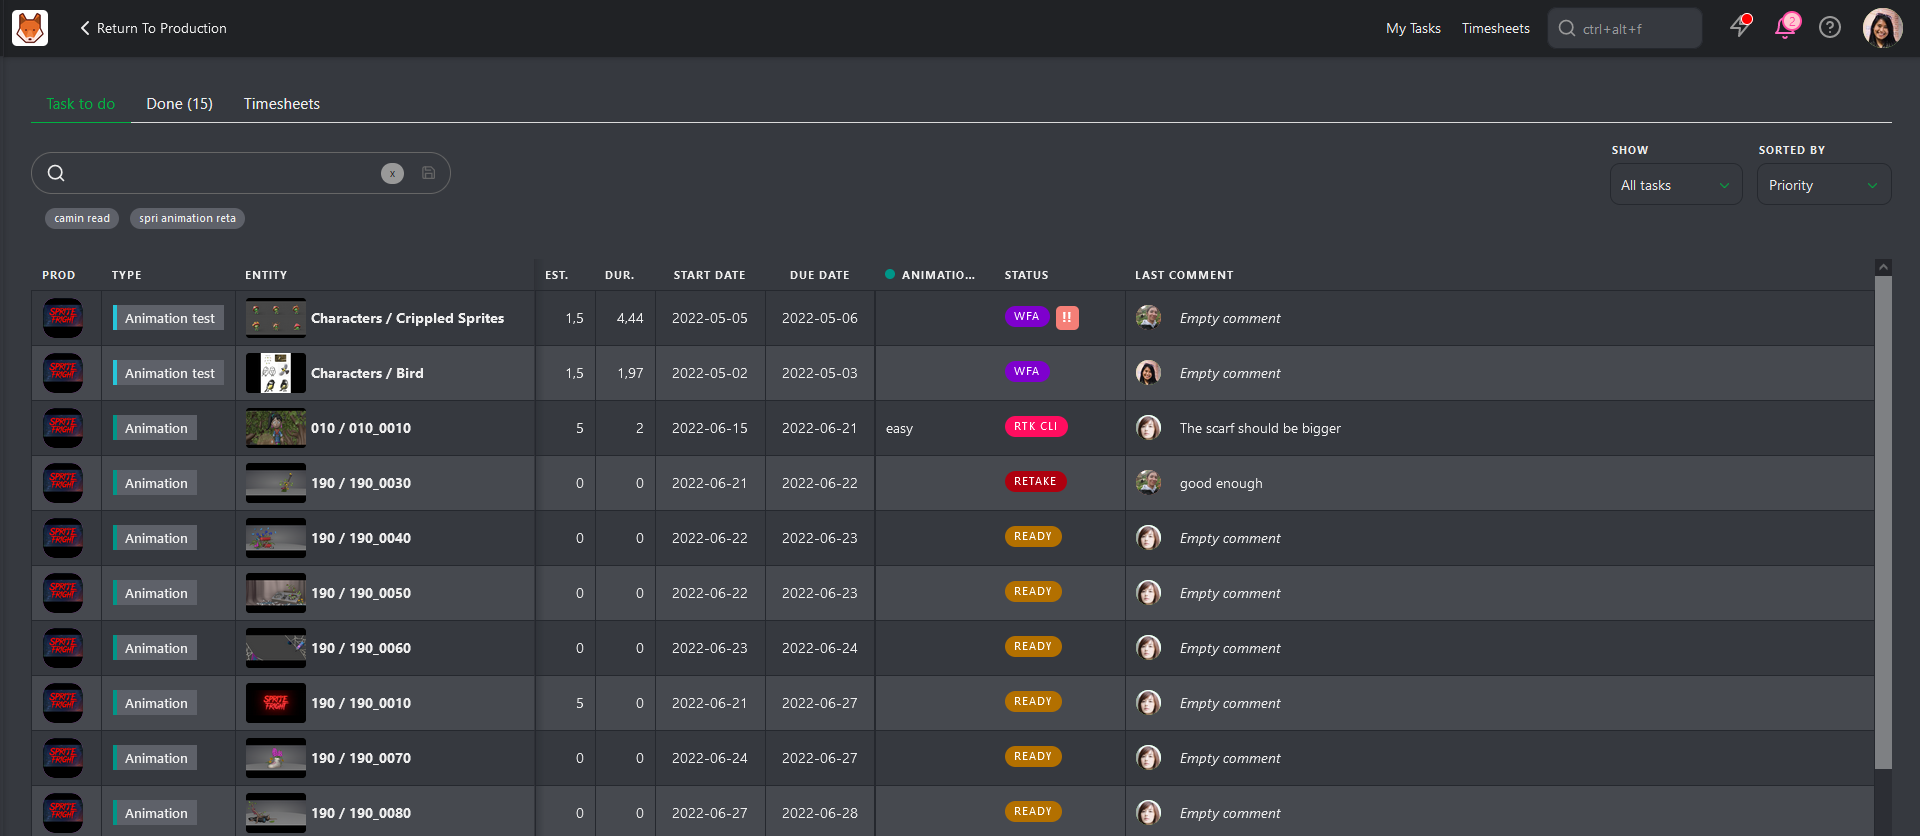
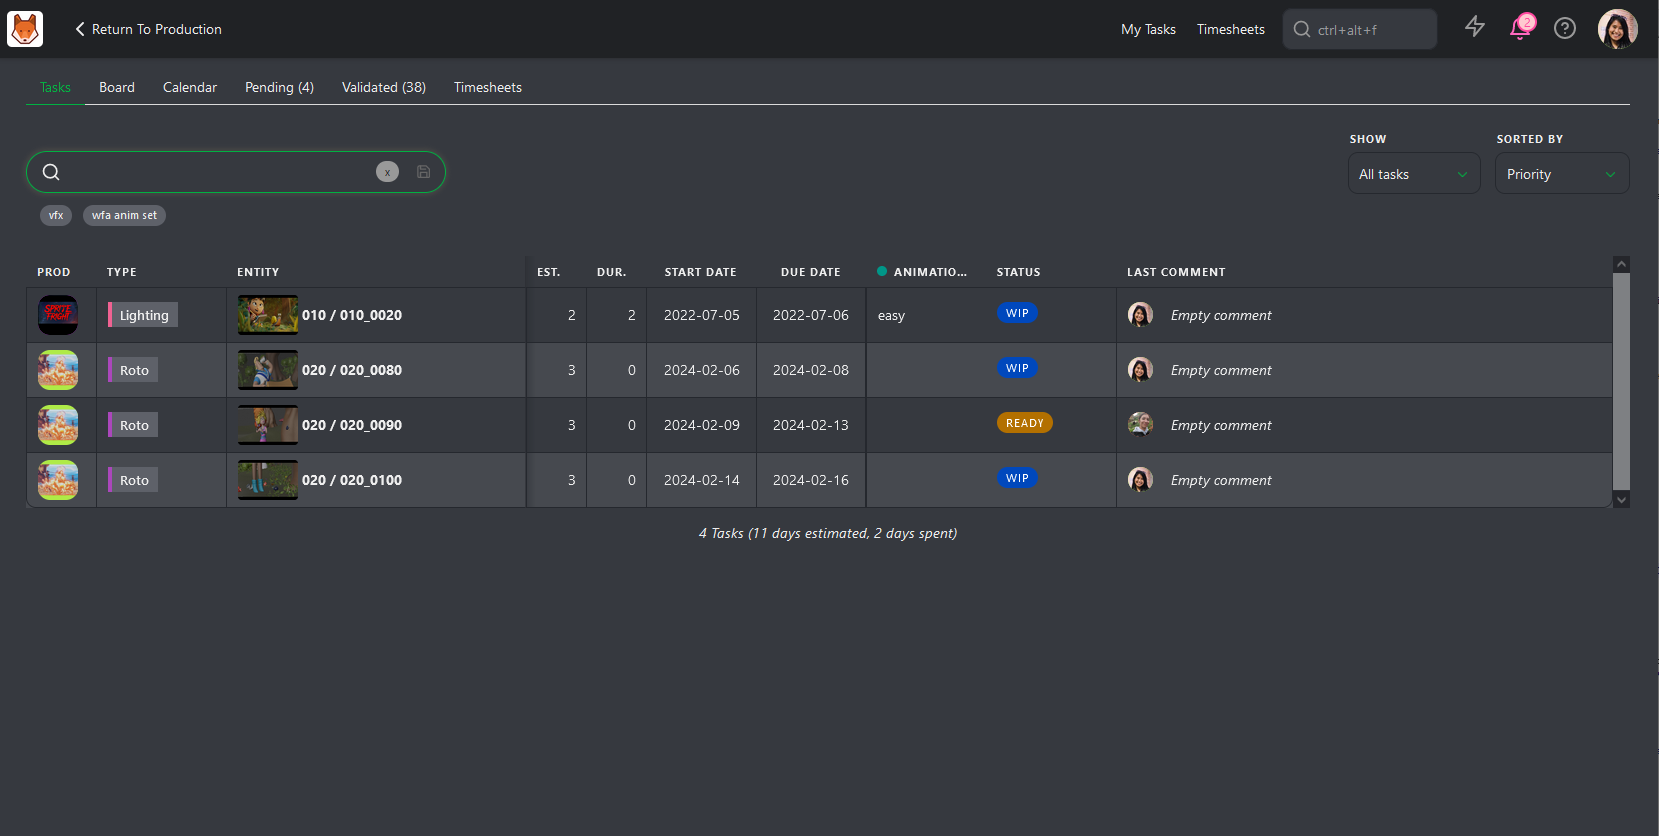
artist todo upd

diff --git a/docs/getting-started-artist/README.md b/docs/getting-started-artist/README.md
@@ -3,23 +3,23 @@
 
 ## First Connection
 
-On your first connection, we encourage you to fill your contact information
+On your first connection, we encourage you to fill in your contact information
 into your profile.
 Click on your avatar on the top right of the screen, then on **Profile**. You can also change the color of the **Theme** and hide or display the **Support Chat**.
 
-NB: A link to this **Documentation** and YouTube **Tutorials** are available .
+NB: A link to this **Documentation** and YouTube **Tutorials** are available.
 You can also jump on our Discord or look at our roadmap.
 
 ![User profile](../img/getting-started/user_profil.png)
 
-On this new page, you can check your name , your email (3), fill your phone
+On this new page, you can check your name and email (3), fill in your phone
 number (4), change the timezone (5), the language of the website (6), and
 post a pic of yourself as your avatar (7). It helps to recognize who is
 doing what!
 
 ![User detail](../img/getting-started/user_profil1.png)
 
-You can also define what kind of notification you want, email or slack.
+You can also define what kind of notification you want: email or Slack.
 
 ![User detail](../img/getting-started/user_profil2.png)
 
@@ -30,7 +30,9 @@ encourage you to change the default password with one of your own.
 ![User password](../img/getting-started/user_password.png)
 
 
-## See your Assignments
+## See your Assignments - Todo tab
+
+You have 3 ways of seeing your Assignments; the first is with the **TODO** tab.
 
 The central part for you, on **Kitsu**, is the **My tasks** page.
 It's the first landing page when you log in.
@@ -41,7 +43,9 @@ You can see per **Production** (1) the **Entity** (2) you are assigned to, but a
 
 ![My tasks page](../img/getting-started/my_task_page.png)
 
-You can sort your page by **name**, **priority**, **status**, **estimation** or **last comment**.
+You can display **All Tasks** or the tasks **Due this Week**.
+
+You can sort your page by **name**, **priority**, **Status**, **estimation** or **last comment**.
 
 ![My tasks page](../img/getting-started/mytask_sort.png)
 
@@ -50,35 +54,34 @@ You can also filter your tasks.
 ![My tasks page](../img/getting-started/mytask_filter.png)
 
 
-Besides the shortcut **My Tasks** on top of the screen, you can also find it on the main menu ![Main menu](../img/getting-started/main_button.png),
-under the **User** section of **MY TASKS**. The Kitsu logo is a shortcut too
-to your task list.
+Besides the shortcut **My Tasks** at the top of the screen, you can also find it on the main menu ![Main menu](../img/getting-started/main_button.png),
+under the **User** section of **MY TASKS**. The Kitsu logo is a shortcut 
+to your task list, too.
 
 ![My tasks](../img/getting-started/my_tasks.png)
 
 
 
-
-## Share your Progress
+## Share your Progress - Todo tab
 
 When you start a new task you are assigned to, click on the Status![Ready](../img/getting-started/ready_icon.png)
-(1) on your my task page. You can also do it on the shots or assets page.
+(1) on your My Task page. You can also do it on the shots or assets page.
 
 ![Shot status](../img/getting-started/my_task_status.png)
 
 It opens a panel on the right of the screen, where you can communicate about your work. Let your teammates know what you are doing.
-For instance, show them you start working on something.
-Each time you change the status of a task, you can attach a
+For instance, show them you have started working on something.
+Each time you change the Status of a task, you can attach a
 text comment to it.
 
-For example, when you start a **new task**, you can say that everything is ok.
-If some information is missing, you can either ask all the questions you want.
+For example, when you start a **new task**, you can say everything is okay.
+You can ask all the questions you want if some information needs to be included.
 
-To change the Status, let's say from ![Ready](../img/getting-started/ready_icon.png) to ![Wip](../img/getting-started/wip_icon.png) as an example,select the **Change status** tab,
-type your comment. Then, click on the status box, choose the
+To change the Status, let's say from ![Ready](../img/getting-started/ready_icon.png) to ![Wip](../img/getting-started/wip_icon.png) as an example, select the **Change status** tab
+and type your comment. Then, click on the status box and choose the
 one you want.
 
-And validate your comment and the new Status by clicking on
+Validate your comment and the new Status by clicking on
 **Post**  button.
 
 ![Changing status](../img/getting-started/changing_status.png)
@@ -88,44 +91,154 @@ using the **edit** button
 ![Edit button](../img/getting-started/edit_button.png).
 
 
+## See your Assignments - Board tab
+
+With the board tab, you can see all your tasks under each status column.
+
+On the card, you can see the thumbnail, the task type's name, and the entity's name.
+
+![Artist board page](../img/getting-started/artist_board_page.png)
+
+
+If you click on the card, the comment panel on the right will open as usual.
+
+![Artist board page comment panel](../img/getting-started/artist_board_page_comment.png)
+
+You can display **All Tasks** or the tasks **Due this Week**.
+
+You can sort your page by **name**, **priority**, **Status**, **estimation** or **last comment**.
+
+![My tasks page](../img/getting-started/mytask_sort.png)
+
+When you want to change the Status of your tasks, you need to drag and move your task to the new status column.
+
+![Artist board page drag](../img/getting-started/artist_board_page_drag.png)
+
+
+Besides the shortcut **My Tasks** at the top of the screen, you can also find it on the main menu ![Main menu](../img/getting-started/main_button.png),
+under the **User** section of **MY TASKS**. The Kitsu logo is a shortcut 
+to your task list, too.
+
+![My tasks](../img/getting-started/my_tasks.png)
+
+
+
+## Share your Progress - Board tab
+
+When you are ready to share your progress, you need to move your card to the status column **WFA**
+
+![Artist board page drag](../img/getting-started/artist_board_page_drag.png)
+
+Once done, Kitsu will automatically ask you to add a preview file for the Review.
+
+![Artist board page wfa](../img/getting-started/artist_board_page_review.png)
+
+You can drag and drop your preview on the **Select file from your hard drive**. Click on the button to select your file.
+
+You can also take a screenshot and paste it on this popup.
+
+Once it's done, click the confirm button to publish your Review.
+
+
+## See your Assignments - Calendar
+
+On the **Calendar** view, you can see all your assignments depending on your tasks' **Start** and **Due** date. If a task lasts several days, you will see the task across those days.
+
+
+![My tasks calendar page](../img/getting-started/artist_calendar_page.png)
+
+
+If you click on the task, the comment panel on the right will open as usual.
+
+![Artist calendar page comment panel](../img/getting-started/artist_calendar_page_panel.png)
+
+
+You can display **All Tasks** or the tasks **Due this Week**.
+
+You can sort your page by **name**, **priority**, **Status**, **estimation** or **last comment**.
+
+![My tasks page](../img/getting-started/mytask_sort.png)
+
+You can also filter your tasks.
+
+![My tasks page](../img/getting-started/mytask_filter.png)
+
+
+
+
+Besides the shortcut **My Tasks** at the top of the screen, you can also find it on the main menu ![Main menu](../img/getting-started/main_button.png),
+under the **User** section of **MY TASKS**. The Kitsu logo is a shortcut 
+to your task list, too.
+
+![My tasks](../img/getting-started/my_tasks.png)
+
+
+
+## Share your Progress - Calendar
+
+When you start a new task you are assigned, click on the task on your calendar page. 
+
+![Artist calendar page comment panel](../img/getting-started/artist_calendar_page_panel.png)
+
+It opens a panel on the right of the screen, where you can communicate about your work. Let your teammates know what you are doing.
+For instance, show them you have started working on something.
+Each time you change the Status of a task, you can attach a
+text comment to it.
+
+For example, when you start a **new task**, you can say everything is okay.
+You can ask all the questions you want if some information needs to be included.
+
+To change the Status, let's say from ![Ready](../img/getting-started/ready_icon.png) to ![Wip](../img/getting-started/wip_icon.png) as an example, select the **Change status** tab
+and type your comment. Then, click on the status box and choose the
+one you want.
+
+Validate your comment and the new Status by clicking on
+**Post**  button.
+
+![Changing status](../img/getting-started/changing_status.png)
+
+You can edit your last comment by clicking on the "history" button and then
+using the **edit** button
+
+
 ## Share your Concept
 
-As a **Concept Artist** you have **Concept** to share with your supervisor and director.
+As a **Concept Artist**, you have **Concept** to share with your supervisor and director.
 
-From your **Todo page**, go back to the production, with the **Return to Production** button
+From your **Todo page**, return to production with the **Return to Production** button.
 
 ![Todo Return](../img/getting-started/todo_return.png)
 
 Once you are on the global page of the production, use the navigation drop-down menu 
-on top the screen to navigate to the **Concept** page.
+on top of the screen to navigate to the **Concept** page.
 
 ![menu concept global](../img/getting-started/menu_concept_global.png)
 
-Once in the **Concept Page**, you have the filter option on top of the screen, then the list of the concept.
+Once in the **Concept Page**, you have the filter option on top of the screen, then the concept list.
 
-To upload a concept, you need to click on the **Add a new reference to concepts** button.
+To upload a concept, click the **Add a new reference to concepts** button.
 
 ![menu concept global](../img/getting-started/concept_empty.png)
 
-A popin will open and let you load your concepts. You can upload one or several concept at the same time.
+A pop-in will open and let you load your concepts. You can upload one or several concepts at the same time.
 
 The concept page is now filled with references.
 
 ![Concept filled](../img/getting-started/concept_filled.png)
 
-The next step is to link the uploaded **Concept** to the created assets of the production.
+The next step is to link the uploaded **Concept** to the created production assets.
 
-Click on the status part of the concept, it will open the comment panel on the right.
+Click on the status part of the concept; it will open the comment panel on the right.
 
 ![Concept Comment Panel](../img/getting-started/concept_comment_panel.png)
 
-On the comment panel, you have 2 options on top the panel:Link a concept to an asset and delete the concept.
+On the comment panel, you have 2 options on top of the panel: Link a concept to an asset and delete the concept.
 
 To link an asset, click on the **Link** ![Link button](../img/getting-started/link_icon.png) button.
 
 Kitsu will display all the **Assets** available to link with the concept uploaded.
 
-On top of the comment panel, Kitsu will list the asset already linked. For now there is **No Links**.
+On top of the comment panel, Kitsu will list the already linked assets. For now, there are **No Links**.
 
 
 ![Concept link](../img/getting-started/concept_link.png)
@@ -144,20 +257,20 @@ You can ask for a review by switching the tab to **Publish revision**
 and change the Status of a task to
 (**Waiting for Approval** ![wfa](../img/getting-started/wfa_icon.png)).
 
-You can drag and drop your file directly or click on the **Attach preview** button.
+You can drag and drop your file or click the **Attach preview** button.
 
 ![Add preview file](../img/getting-started/add_preview.png)
 
 ![Waiting for approval](../img/getting-started/wfa_status.png)
 
-Then use the **Post** button.
+Then, use the **Post** button.
 
 Your work appears on the right part of the screen as a V1.
 
 ![Preview v1](../img/getting-started/previewv1.png)
 
-If you post several revisions, you always keep track of your previous work.
-Each time you add a new revision, the previous versions are still available.
+You always keep track of your previous work if you post several revisions.
+The previous versions are still available each time you add a new revision.
 
 ![Preview v2](../img/getting-started/previewv2.png)
 
@@ -173,10 +286,10 @@ You can navigate through the pictures uploaded.
 
 
 This detailed page of the tasks is your way to communicate with others.
-They also use this page to answer your questions, give you feedback, and ask for a retake. The history of the conversation is always available.
+They also use this page to answer your questions, give feedback, and request a retake. The history of the conversation is always available.
 
 For quicker access to the information, when you get back to your todo
-page, the last comment posted on each task is available too.
+page, the last comment posted on each task is available, too.
 
 ![My tasks page](../img/getting-started/my_task_page2.png)
 
@@ -187,21 +300,21 @@ on the **Done** tab.
 
 ## Fill your Timesheet
 
-Every day, you can declare how much time you spent on each task. On your **My Tasks**
+Daily, you can declare how much time you spent on each task. On your **My Tasks**
 page, go to the **Timesheets** tab (1). Or click on the shortcut on top of the screen.
 
 ![Timesheets](../img/getting-started/timesheets.png)
 
-You need to move the cursor (3) next to each task accordingly to the number of
+It would help to move the cursor (3) next to each task to reflect the 
 hours spent. You can also go quicker and click on the **1**, **4**, or **8**
 hours buttons (4).
 
-If you miss your declaration one day, you can click on the today date (2) and
-go back in time and select the day you have missed. If you didn't work, you could tag the day as a **Day Off** (5).
+If you miss your declaration one day, you can click on the today date (2) 
+Go back in time and select the day you missed. If you didn't work, you could tag the day as a **Day Off** (5).
 
 ![Timesheets change the date](../img/getting-started/timesheet_change_date.png)
 
 In case you forget to mention the time spent on a finished task, you can still
-find it in the **Done tasks** list located below the running tasks list.
+please find it in the **Done tasks** list below the running tasks list.
 
 ![Timesheets done tasks](../img/getting-started/timesheet_done_task.png)

diff --git a/docs/first_production/README.md b/docs/first_production/README.md
@@ -324,6 +324,34 @@ he's assigned.
 Now, everybody knows what to do and who is doing what!
 
 
+## Select the status for the Artist board page
+
+When you assign a task to an artist, they will see the task on their todo page when they log in.
+
+But they can also choose to display their task as a board view. Each **Status** will be a column, and the assigned task is a card that can be move from status to status depending on the progress of the task.
+
+To setup the board view, you need to go to the setting page of your production.
+
+![Setting page](../img/getting-started/drop_down_menu_setting.png)
+
+Then go to the **Task Status** tab. You see the list of the status used on your production.
+
+It will be the same status used as column on the board page. You can drag and move the satus to change the order as they will appear on the board view.
+
+
+![Setting page status order](../img/getting-started/setting_status_order.png)
+
+The next step is with the **Board Status** page.
+
+![Setting page status board](../img/getting-started/setting_status_board.png)
+
+Here you can choose which status will be displayed on the **Board** page depending on the permission.
+
+Once it's done you artist should have a page like this.
+
+![Artist board page](../img/getting-started/artist_board_page.png)
+
+
 ## Add the Frameranges
 
 At this stage of the production, the animatic should be done. This means you have
